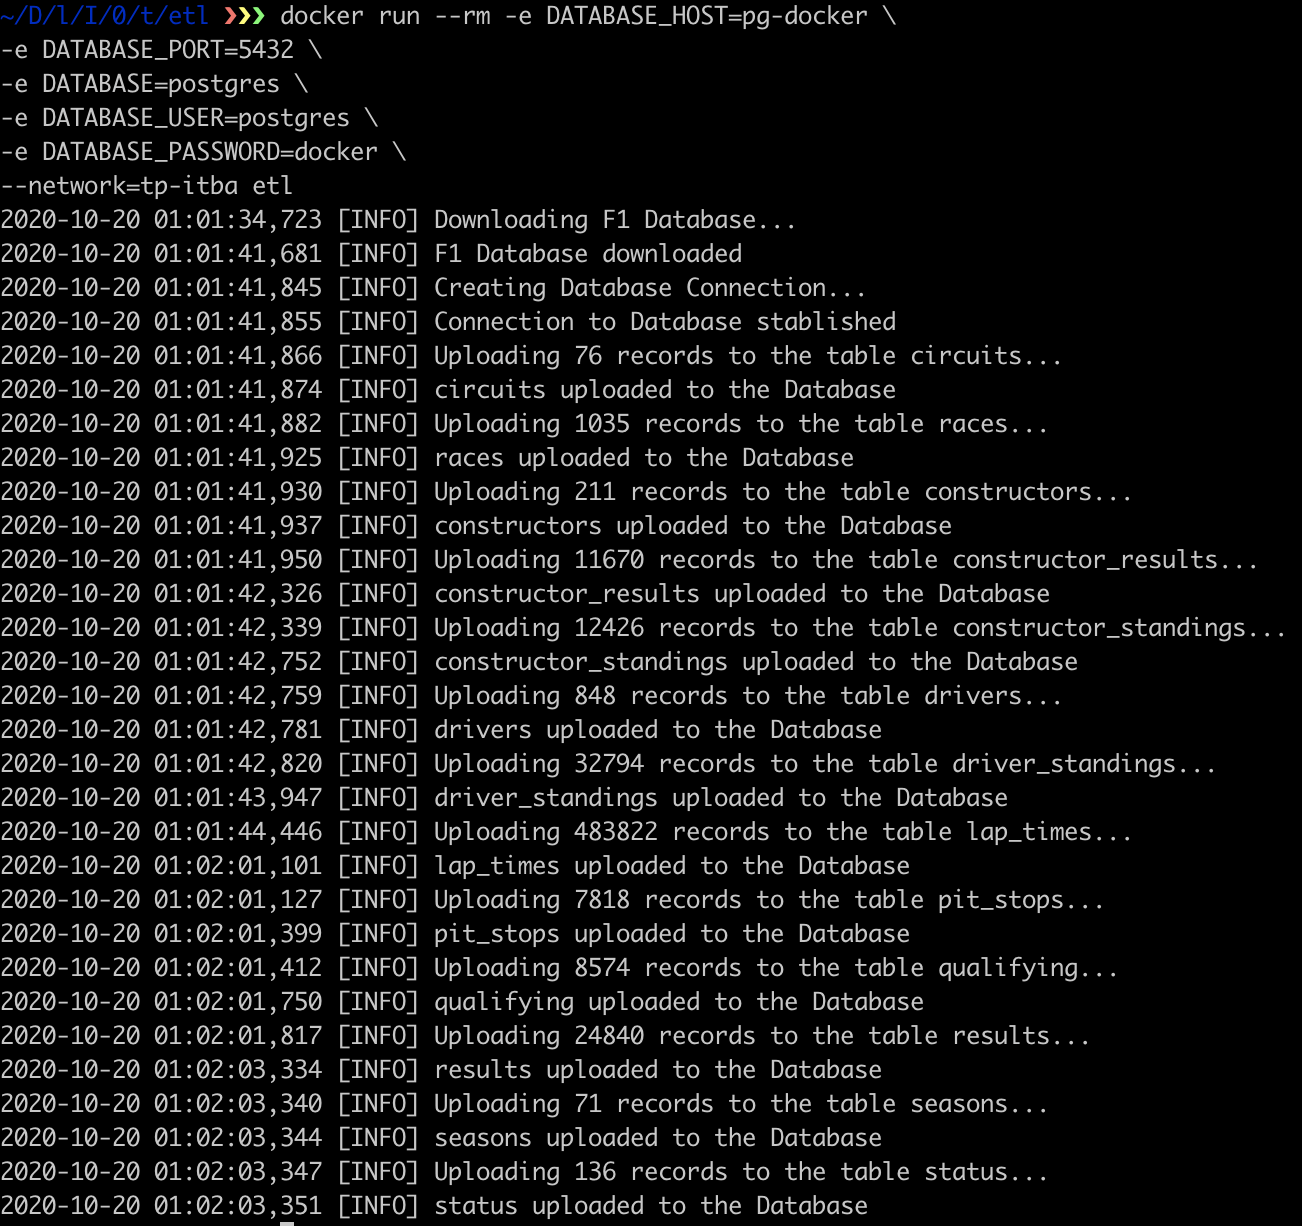
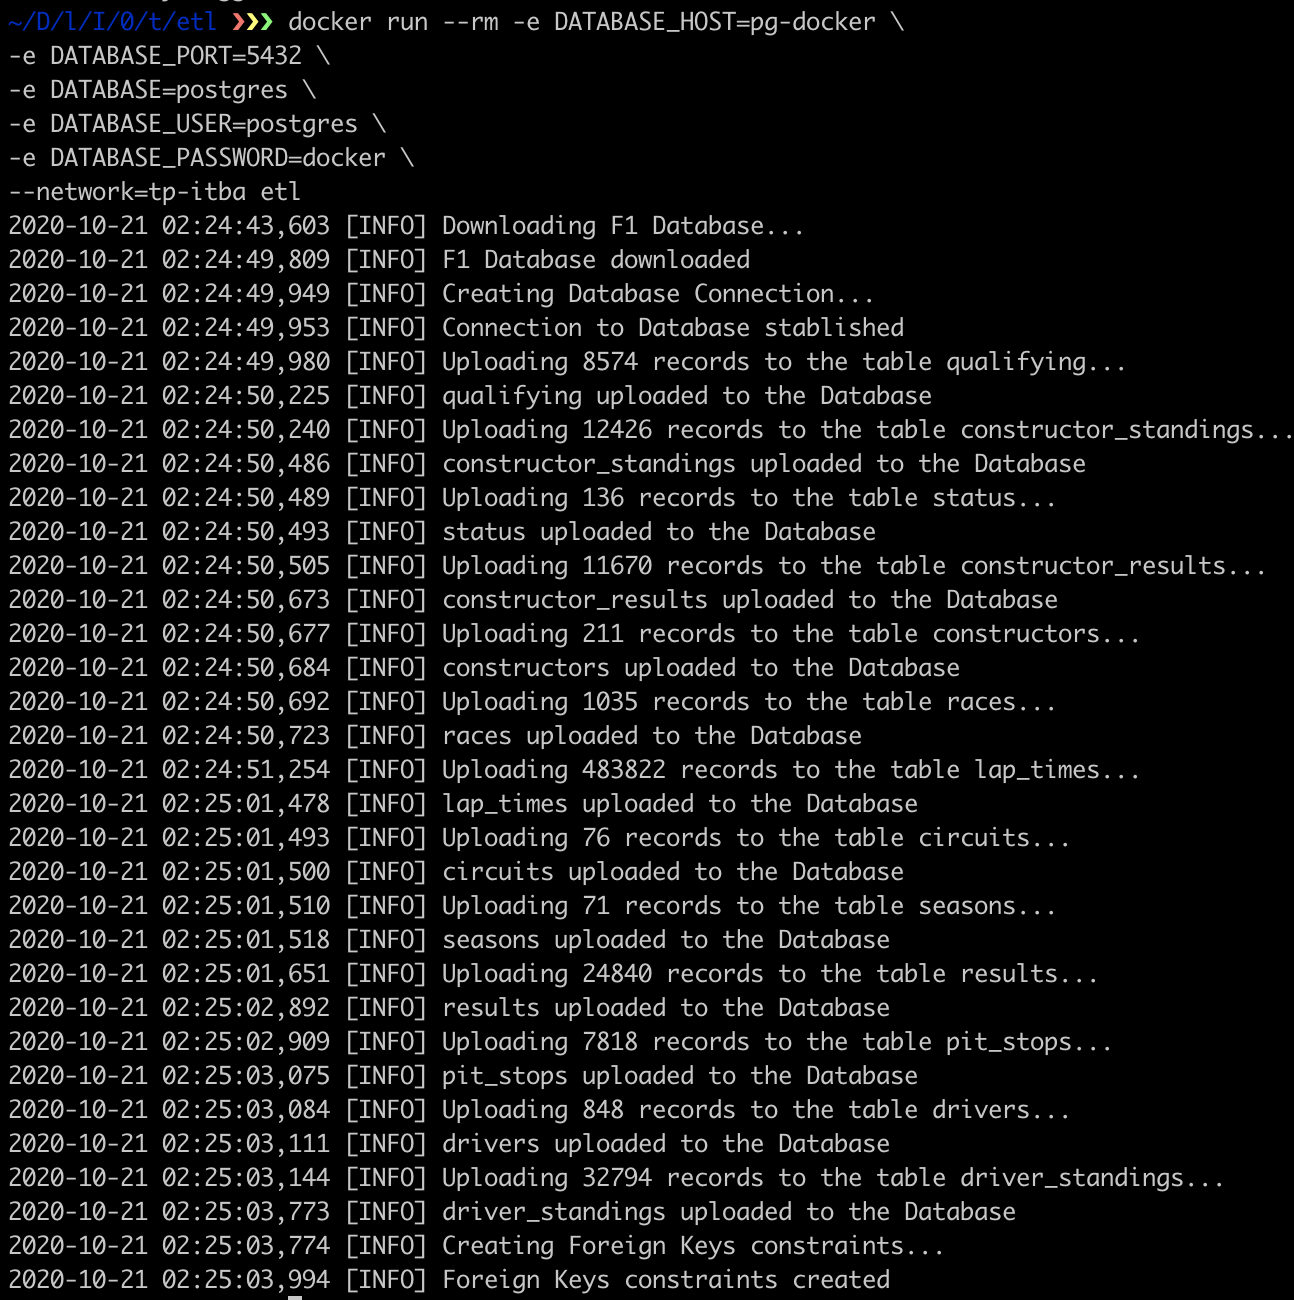
add foreign_keys query

Changed region(s): [[0.0, 0.0, 0.9583, 1.0]]

diff --git a/etl/etl.py b/etl/etl.py
@@ -42,14 +42,7 @@ if __name__=='__main__':
 
     conn, cur = get_conn()
 
-    # hardcdeo el nombre de los archivos porque sino me rompe cuando inserto los valores de una tabla que tiene un foreign key,
-    # y todavia no inserte los valores en esa tabla
-    # con este orden, se me respetan bien las inserciones y las dependencias de tablas 
-    files = ['circuits.csv', 'races.csv', 'constructors.csv', 'constructor_results.csv', 'constructor_standings.csv',
-            'drivers.csv', 'driver_standings.csv', 'lap_times.csv', 'pit_stops.csv', 'qualifying.csv', 'results.csv',
-            'seasons.csv', 'status.csv']
-
-    for file in files:
+    for file in os.listdir('db'):
         
         tablename = file.replace('.csv','')
         data = pd.read_csv('db/{}'.format(file), na_values='\\N')
@@ -61,6 +54,16 @@ if __name__=='__main__':
         conn.commit()
 
         logger.info('{} uploaded to the Database'.format(tablename))
-        
+
+    logger.info('Creating Foreign Keys constraints...')
+    
+    with open('foreign_keys_query.sql','r') as f:
+        constraints_query = f.read()
+
+    cur.execute(constraints_query)
+    conn.commit()
+
+    logger.info('Foreign Keys constraints created')
+
     cur.close()
     conn.close()

diff --git a/README.md b/README.md
@@ -81,6 +81,8 @@ Como comenté, elegí usar PostgreSQL como base de datos para guardar toda la in
 
 La vamos a levantar mediante docker compose. Esto va a levantar la base de datos (va a correr una imagen de postgres), va a esperar a que la base este operativa, y después va a correr el container generado por la imagen que está en el directorio `/db`, que contiene un script de bash que ejecuta un script de sql que crea todas las tablas necesarias. A su vez, indicamos en el docker-compose.yml, que se conecte a la red previamente creada, asi podemos comunicarnos con el resto de los containers.
 
+Tanto la definición de los campos de las tablas como las foreign keys, las obtengo de [acá](http://ergast.com/schemas/f1db_schema.txt).
+
 Para lograr todo esto, ejecutamos los siguientes comandos,suponiendo que estamos en la tuta principal del proyecto:
 ```
 $ cd db
@@ -126,7 +128,7 @@ donde:
 - `-e` le pasamos algunas variables de entorno, en este caso las relacionadas a la base de datos. Acá se ve como el DATABASE_HOST es el nombre con el que llamamos al container de la imagen que se encuentra en /db (tal como está especificado en el archivo docker-compose.yml de ese directorio). Por eso es importante haberle definido un nombre.
 - `--network` conecta el container a la red `tp-itba` que creamos al principio de todo.
 
-Habiendo ejecutado ese comando, vamos a ver los logs impresos en la terminal de que se descargó la base de la F1, y se estan insertando en cada tabla correspondiente:
+Habiendo ejecutado ese comando, vamos a ver los logs impresos en la terminal de que se descargó la base de la F1, y se estan insertando en cada tabla correspondiente, y al final de todo el script, define los constraints de las foreign keys entre las distintas tablas:
 
 ![logs ETL](./assets/etl/logs_etl.png)
 
